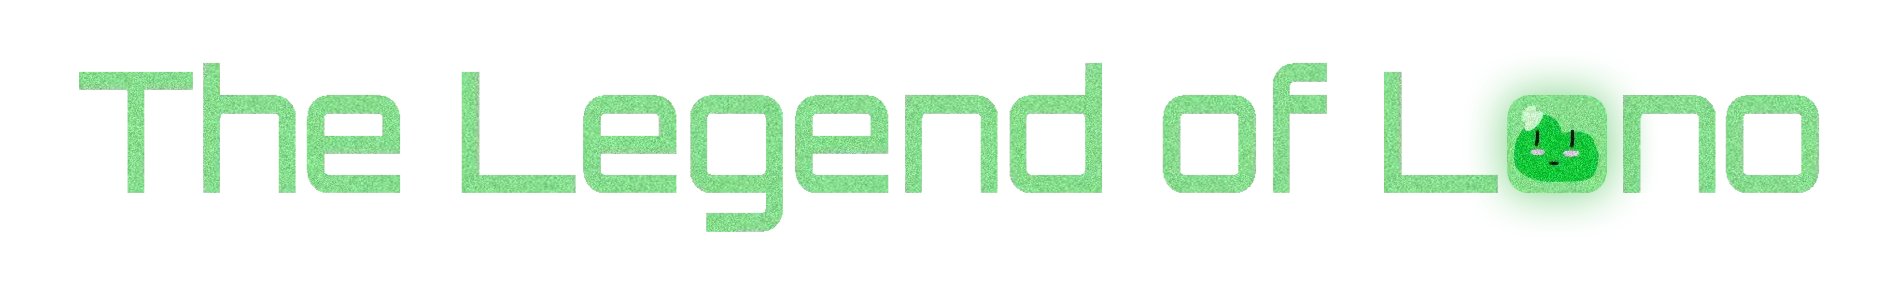
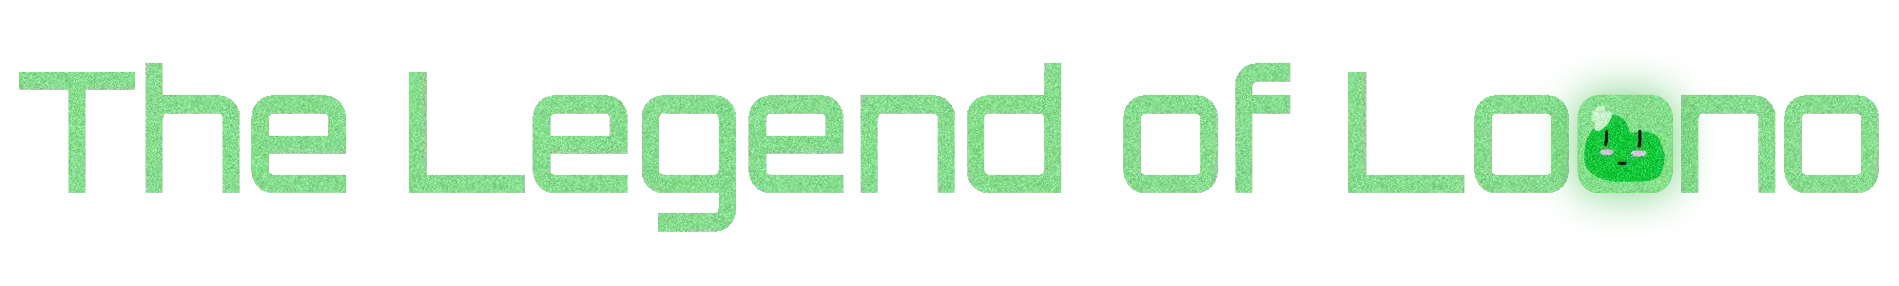
asd

Changed region(s): [[0.0, 0.2238, 0.9942, 0.8112]]

diff --git a/app/Docs.js b/app/Docs.js
@@ -3,15 +3,15 @@ export const Docs = () => {
       <div className='hidden md:block space-y-4 max-w-[calc(100%-24px)]'>
          <div className='rounded-lg text-card-foreground shadow-sm bg-[#0a1f0a] bg-opacity-80 p-6 border border-[#4AFF91] overflow-y-auto max-h-[calc(100vh-200px)] [&amp;::-webkit-scrollbar]:w-2 [&amp;::-webkit-scrollbar-track]:bg-[#1a2e1a] [&amp;::-webkit-scrollbar-thumb]:bg-[#4AFF91] [&amp;::-webkit-scrollbar-thumb]:rounded-full scrollbar-thin scrollbar-thumb-[#4AFF91] scrollbar-track-[#1a2e1a]'>
             <h1 className='text-[#4AFF91] text-4xl font-bold mb-6'>
-               The Legend of Loomo — An Interactive, Evolving AI Narrative
+               The Legend of Loono — An Interactive, Evolving AI Narrative
             </h1>
             <section className='mb-8'>
                <h2 className='text-[#4AFF91] text-2xl font-bold mb-4'>
                   1. Introduction
                </h2>
                <p className='text-[#a3e9c6] mb-4'>
-                  The Legend of Loomo is an AI-driven, chapter-based interactive
-                  story where users engage with Loomo, a mysterious sentient
+                  The Legend of Loono is an AI-driven, chapter-based interactive
+                  story where users engage with Loono, a mysterious sentient
                   entity, across multiple narrative chapters. Each chapter
                   evolves dynamically based on user interactions and collective
                   inputs across previous chapters. Upon chapter completion, the
@@ -22,7 +22,7 @@ export const Docs = () => {
                <p className='text-[#a3e9c6]'>
                   This whitepaper outlines the system architecture, AI behavior,
                   data flow, and mechanics for implementing the evolving
-                  interactive Loomo experience.
+                  interactive Loono experience.
                </p>
             </section>
             <section className='mb-8'>
@@ -41,7 +41,7 @@ export const Docs = () => {
                            Every chapter contains:
                            <ul className='list-circle list-inside ml-4'>
                               <li>
-                                 Interactive AI responses (Loomo's dialogue).
+                                 Interactive AI responses (Loono's dialogue).
                               </li>
                               <li>Input collection for learning.</li>
                               <li>
@@ -55,7 +55,7 @@ export const Docs = () => {
                      <span className='font-semibold'>AI Learning Engine</span>
                      <ul className='list-disc list-inside ml-4 mt-2'>
                         <li>
-                           Purpose: Adapt Loomo's responses based on user
+                           Purpose: Adapt Loono's responses based on user
                            interactions.
                         </li>
                         <li>
@@ -85,7 +85,7 @@ export const Docs = () => {
                            logic to create a unique final story (epilogue).
                         </li>
                         <li>
-                           Reflects user interactions, decisions, and Loomo's
+                           Reflects user interactions, decisions, and Loono's
                            evolving personality.
                         </li>
                      </ul>
@@ -117,7 +117,7 @@ export const Docs = () => {
                </h4>
                <ul className='list-disc list-inside text-[#a3e9c6] mb-4'>
                   <li>
-                     Prompt-Response Cycle: Users chat with Loomo, asking
+                     Prompt-Response Cycle: Users chat with Loono, asking
                      questions or responding to its dialogue.
                   </li>
                   <li>
@@ -129,7 +129,7 @@ export const Docs = () => {
                <ul className='list-disc list-inside text-[#a3e9c6] ml-4 mb-4'>
                   <li>Chapter 2: User asks, "Where did you come from?"</li>
                   <li>
-                     Chapter 3 Loomo Response (adapted): "I remember someone
+                     Chapter 3 Loono Response (adapted): "I remember someone
                      asking me that before. Maybe it's time I answer... or maybe
                      I like the mystery too much."
                   </li>
@@ -137,7 +137,7 @@ export const Docs = () => {
                <h4 className='text-[#4AFF91] text-lg font-semibold mb-2'>
                   B. Adaptive Behavior
                </h4>
-               <p className='text-[#a3e9c6] mb-2'>Loomo evolves conversationally:</p>
+               <p className='text-[#a3e9c6] mb-2'>Loono evolves conversationally:</p>
                <ul className='list-disc list-inside text-[#a3e9c6] ml-4 mb-4'>
                   <li>It remembers popular questions (most-asked by users).</li>
                   <li>
@@ -146,7 +146,7 @@ export const Docs = () => {
                   </li>
                   <li>
                      It references user-driven themes (e.g., if users focus on
-                     "luck," Loomo may explore that concept deeply in future
+                     "luck," Loono may explore that concept deeply in future
                      chapters).
                   </li>
                </ul>
@@ -165,7 +165,7 @@ export const Docs = () => {
                   </li>
                   <li>
                      Chapter Insights: Insights feed into the next chapter's AI,
-                     influencing Loomo's behavior.
+                     influencing Loono's behavior.
                   </li>
                </ol>
             </section>
@@ -196,10 +196,10 @@ export const Docs = () => {
                   </li>
                </ul>
                <h3 className='text-[#4AFF91] text-xl font-semibold mb-2'>
-                  4.2 Loomo Personality Evolution
+                  4.2 Loono Personality Evolution
                </h3>
                <p className='text-[#a3e9c6] mb-2'>
-                  Based on aggregated data, Loomo evolves:
+                  Based on aggregated data, Loono evolves:
                </p>
                <ul className='list-disc list-inside text-[#a3e9c6] ml-4'>
                   <li>
@@ -207,12 +207,12 @@ export const Docs = () => {
                      ("Someone told me they thought I was lucky…").
                   </li>
                   <li>
-                     Tone Shifts: If users engage positively, Loomo becomes
+                     Tone Shifts: If users engage positively, Loono becomes
                      friendlier. If skeptical, it may grow cryptic.
                   </li>
                   <li>
                      Behavioral Adaptation: Recurring themes (e.g., voids,
-                     galaxies, luck) shape Loomo's narrative focus.
+                     galaxies, luck) shape Loono's narrative focus.
                   </li>
                </ul>
             </section>
@@ -224,7 +224,7 @@ export const Docs = () => {
                   5.1 Concept
                </h3>
                <p className='text-[#a3e9c6] mb-4'>
-                  Upon completion of all chapters, Loomo generates a personalized
+                  Upon completion of all chapters, Loono generates a personalized
                   epilogue:
                </p>
                <ul className='list-disc list-inside text-[#a3e9c6] ml-4 mb-4'>
@@ -240,7 +240,7 @@ export const Docs = () => {
                            expressed).
                         </li>
                         <li>
-                        Loomo's evolved "personality" shaped by the chats.
+                        Loono's evolved "personality" shaped by the chats.
                         </li>
                      </ul>
                   </li>
@@ -282,9 +282,9 @@ export const Docs = () => {
                         </li>
                      </ul>
                      <p className='text-[#4AFF91] italic mt-2 ml-8'>
-                        "Loomo vanished into the void, whispering of luck left
+                        "Loono vanished into the void, whispering of luck left
                         behind. Somewhere, someone found a green clover on their
-                        doorstep and smiled. The void hums, and Loomo remembers
+                        doorstep and smiled. The void hums, and Loono remembers
                         you."
                      </p>
                   </li>
@@ -302,7 +302,7 @@ export const Docs = () => {
                      Frontend (User Interaction):
                      <ul className='list-disc list-inside ml-4 mt-2'>
                         <li>Web interface with chapter-based progression.</li>
-                        <li>AI chat module for engaging Loomo.</li>
+                        <li>AI chat module for engaging Loono.</li>
                      </ul>
                   </li>
                   <li className='mt-2'>
@@ -311,7 +311,7 @@ export const Docs = () => {
                         <li>Chat data collection and storage.</li>
                         <li>NLP engine for theme and pattern extraction.</li>
                         <li>
-                           Context management (for adaptive Loomo behavior).
+                           Context management (for adaptive Loono behavior).
                         </li>
                      </ul>
                   </li>
@@ -336,7 +336,7 @@ export const Docs = () => {
                   7.1 Personalized AI Chat Experience
                </h3>
                <p className='text-[#a3e9c6] mb-4'>
-                  Users feel like Loomo "remembers" their interactions, creating
+                  Users feel like Loono "remembers" their interactions, creating
                   a conversational bond.
                </p>
                <h3 className='text-[#4AFF91] text-xl font-semibold mb-2'>
@@ -350,7 +350,7 @@ export const Docs = () => {
                </h3>
                <p className='text-[#a3e9c6]'>
                   The story concludes uniquely for each user group, reflecting
-                  their collective influence on Loomo.
+                  their collective influence on Loono.
                </p>
             </section>
             <section className='mb-8'>
@@ -378,8 +378,8 @@ export const Docs = () => {
                      "final story" shaped by all interactions.
                   </li>
                   <li>
-                  Loomo Memories Archive: Save key questions and responses to
-                     create a digital Loomo "journal."
+                  Loono Memories Archive: Save key questions and responses to
+                     create a digital Loono "journal."
                   </li>
                </ul>
             </section>
@@ -388,15 +388,15 @@ export const Docs = () => {
                   10. Conclusion
                </h2>
                <p className='text-[#a3e9c6] mb-4'>
-                  The Legend of Loomo is an innovative fusion of interactive
+                  The Legend of Loono is an innovative fusion of interactive
                   storytelling, evolving AI, and collective creativity. By
-                  combining user inputs across chapters, Loomo becomes more than
+                  combining user inputs across chapters, Loono becomes more than
                   just a character—it becomes an evolving, living story. The
-                  final epilogue is not written by Loomo alone but by everyone
+                  final epilogue is not written by Loono alone but by everyone
                   who dared to chat, question, and play.
                </p>
                <p className='text-[#a3e9c6]'>
-                  And somewhere, Loomo will always hum… waiting to be found
+                  And somewhere, Loono will always hum… waiting to be found
                   again.
                </p>
             </section>

diff --git a/app/page.js b/app/page.js
@@ -9,63 +9,63 @@ const data = [
       title: 'Chapter 1: The Awakening',
       image: 'portal-ezgif.com-png-to-webp-converter.webp',
       description:
-         'A green puddle blinked into existence. It wobbled, whispered "Loomo," and the universe shivered.',
+         'A green puddle blinked into existence. It wobbled, whispered "Loono," and the universe shivered.',
       isLocked: false
    },
    {
       title: 'Chapter 2: The Scientist',
       image: 'imgs20-min-jijTmesAFnWUXs2TkR1lzqNdUUWZ3S.webp',
       description:
-         'A green puddle blinked into existence. It wobbled, whispered "Loomo," and the universe shivered.',
+         'A green puddle blinked into existence. It wobbled, whispered "Loono," and the universe shivered.',
       isLocked: true
    },
    {
       title: 'Chapter 3: Cosmic Memory',
       image: 'imgs3-min.webp',
       description:
-         'When Loomo hummed, the walls vanished. Galaxies danced. Aki`s hands shook. You`re not from here, are you?',
+         'When Loono hummed, the walls vanished. Galaxies danced. Aki`s hands shook. You`re not from here, are you?',
       isLocked: true
    },
    {
       title: 'Chapter 4: The Gift',
       image: 'imgs21-min-QuBTgrPQD7W5l8UjJw0Hm5UFsmMgFA.webp',
       description:
-         'Loomo turned into a four-leaf clover. Aki`s luck changed. She wondered: Was it luck… or destiny?',
+         'Loono turned into a four-leaf clover. Aki`s luck changed. She wondered: Was it luck… or destiny?',
       isLocked: true
    },
    {
       title: 'Chapter 5: The Giant',
       image: 'imgs15-min-OHU0A5dyX5ArU8rpN9WWcK0FHw4Qoy.webp',
       description:
-         'Loomo grew tall enough to touch the clouds. Below, people whispered prayers.',
+         'Loono grew tall enough to touch the clouds. Below, people whispered prayers.',
       isLocked: true
    },
    {
       title: 'Chapter 6: The Wanderer',
       image: 'zxczxc3-min-EiNov9igHaZiJn0ARHQ3HavbccVdVN.webp',
       description:
-         'At the cliff`s edge, Loomo stared into the void. Something stared back.',
+         'At the cliff`s edge, Loono stared into the void. Something stared back.',
       isLocked: true
    },
    {
       title: 'Chapter 7: The Waterfall',
       image: 'imgs14-min-AHnC1jtgABDuAD2dUgQjnGOAAYoIkF.webp',
       description:
-         'Loomo melted into the river. The water glowed green. No one dared to drink.',
+         'Loono melted into the river. The water glowed green. No one dared to drink.',
       isLocked: true
    },
    {
       title: 'Chapter 8: The Beam',
       image: 'imgs12-min-a4sGMBDzRjrhfokYYRN6h7y3fCT8WO.webp',
       description:
-         'A light from the sky called Loomo home. It left behind nothing but silence… and questions.',
+         'A light from the sky called Loono home. It left behind nothing but silence… and questions.',
       isLocked: true
    },
    {
       title: 'Chapter 9: The Leap',
       image: 'imgs11-min-ofUlXISjlgd6LPmHeZd88hjGWbmHOi.webp',
       description:
-         'Loomo dove into the black hole, laughing. Some say it`s still out there, humming.',
+         'Loono dove into the black hole, laughing. Some say it`s still out there, humming.',
       isLocked: true
    }
 ];
@@ -96,7 +96,7 @@ export default function Home() {
             <div className='mt-2 mb-4 flex justify-center'>
                <div className='relative w-full max-w-[1000px] h-[128px]'>
                   <img
-                     alt='The Legend of Loomo'
+                     alt='The Legend of Loono'
                      fetchPriority='high'
                      decoding='async'
                      data-nimg='fill'
@@ -111,7 +111,7 @@ export default function Home() {
                         bottom: 0,
                         color: 'transparent'
                      }}
-                     src='header.webp'
+                     src='header.png'
                   />
                </div>
             </div>
@@ -373,7 +373,7 @@ export default function Home() {
                                     className='gap-2 whitespace-nowrap text-sm font-medium ring-offset-background transition-colors focus-visible:outline-none focus-visible:ring-2 focus-visible:ring-ring focus-visible:ring-offset-2 disabled:pointer-events-none disabled:opacity-50 [&amp;_svg]:pointer-events-none [&amp;_svg]:size-4 [&amp;_svg]:shrink-0 py-2 w-full h-16 bg-[#4AFF91] text-black hover:bg-[#3DE080] flex items-center justify-between px-4'
                                  >
                                     <span className='text-xl font-bold'>
-                                       Talk with Loomo
+                                       Talk with Loono
                                     </span>
                                     <svg
                                        xmlns='http://www.w3.org/2000/svg'

diff --git a/app/ChatComponent.js b/app/ChatComponent.js
@@ -37,7 +37,7 @@ const ChatComponent = ({ setIsChatOpen }) => {
          return updatedHistory;
       });
 
-      const botTypingMessage = { message: 'Loomo is typing...', isUser: false };
+      const botTypingMessage = { message: 'Loono is typing...', isUser: false };
       setChatHistory((prevHistory) => [...prevHistory, botTypingMessage]);
 
       setMessage('');
@@ -87,7 +87,7 @@ const ChatComponent = ({ setIsChatOpen }) => {
       <div className='text-card-foreground shadow-sm bg-[#1a2e1a] bg-opacity-80 border-0 p-6'>
          <div className='flex justify-between items-center mb-4'>
             <h2 className='text-[#4AFF91] text-2xl font-bold'>
-               Talk with Loomo
+               Talk with Loono
             </h2>
             <button
                onClick={() => setIsChatOpen(false)}
@@ -145,7 +145,7 @@ const ChatComponent = ({ setIsChatOpen }) => {
          <form className='flex space-x-2' onSubmit={handleSendMessage}>
             <input
                className='flex-grow h-10 border px-3 py-2 bg-[#243524] border-[#4AFF91] text-white'
-               placeholder='Ask Loomo something...'
+               placeholder='Ask Loono something...'
                value={message}
                onChange={(e) => setMessage(e.target.value)}
             />
